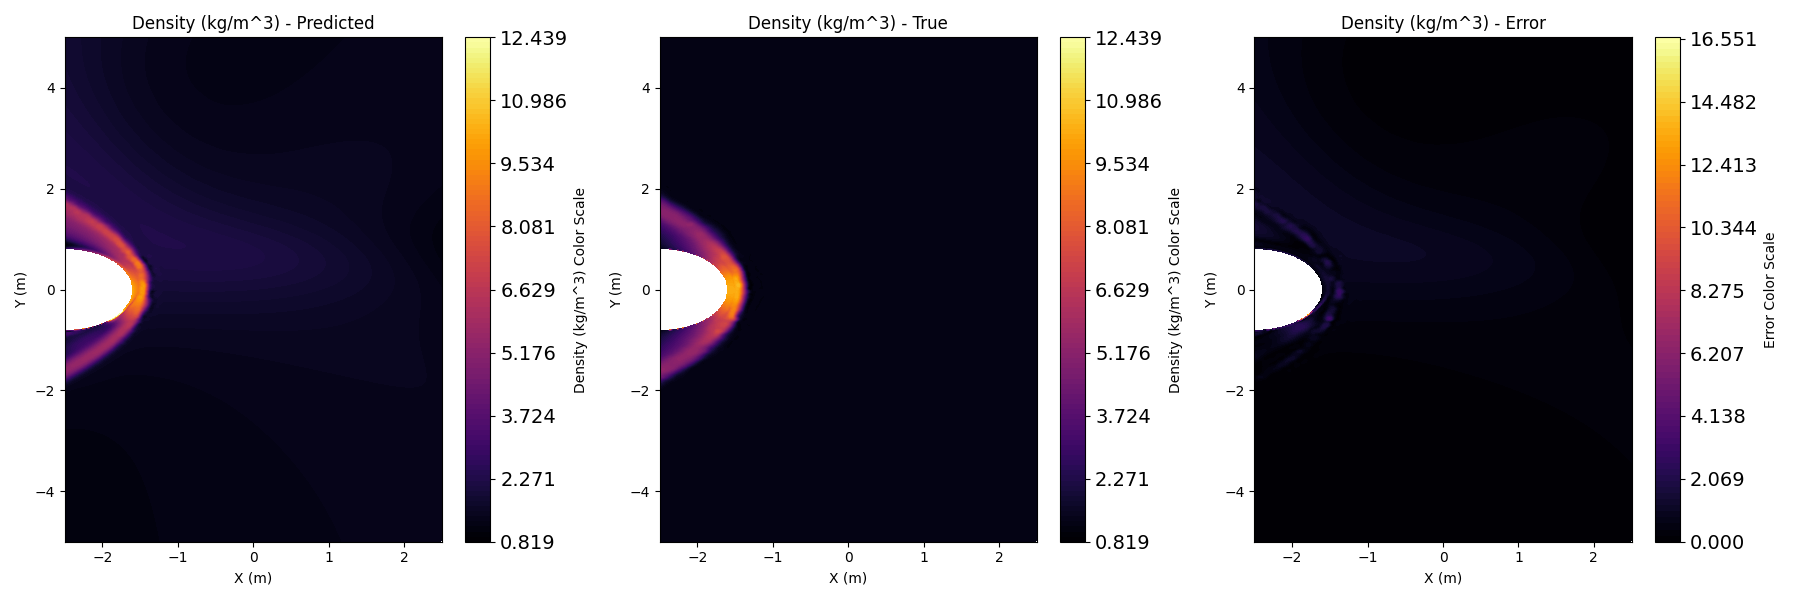
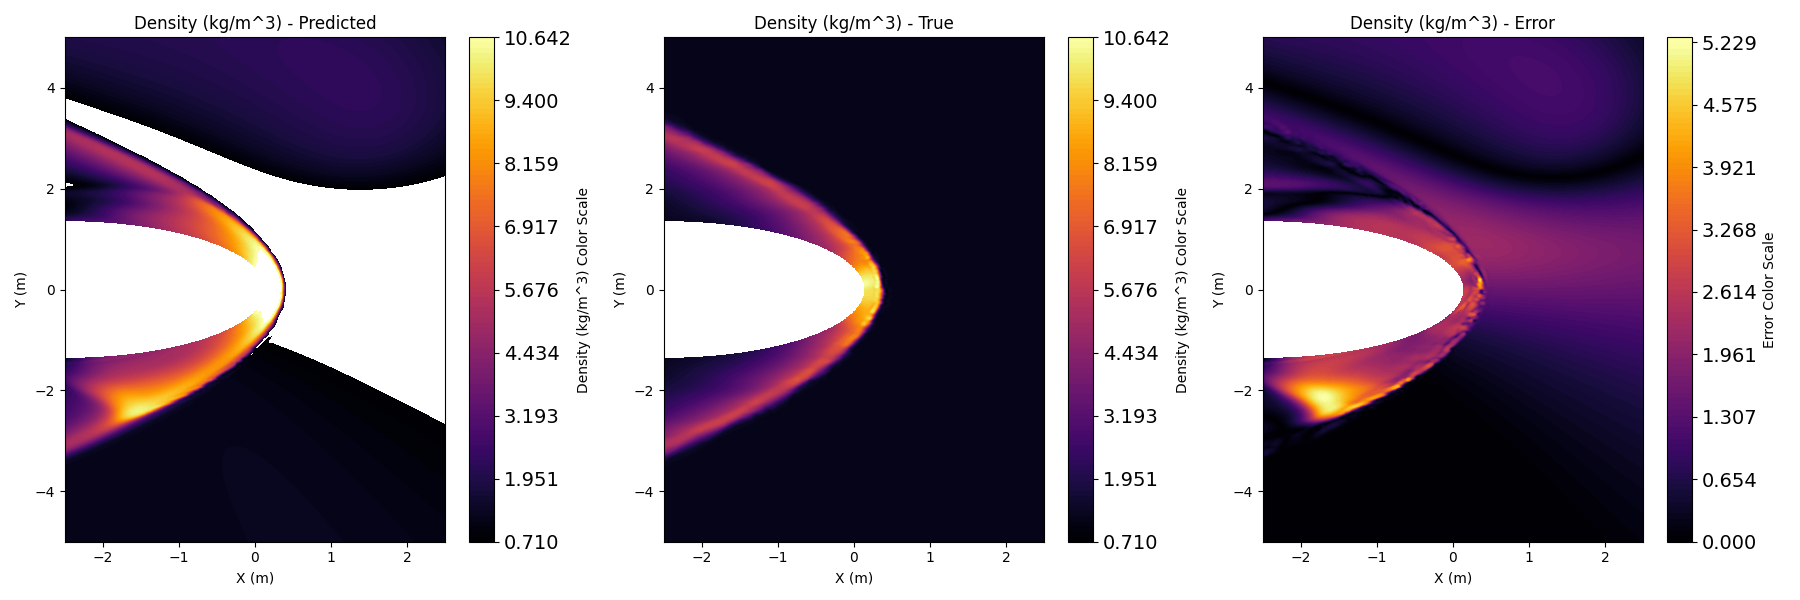
going to analyze code and get help with checking if I'm actually passing in lf output into hf net

diff --git a/src/postprocess/methods_postprocess.py b/src/postprocess/methods_postprocess.py
@@ -166,6 +166,7 @@ class MethodsPostprocess:
             residuals = residuals_all[param_mask]
 
             # === Denormalize residuals for this case ===
+            r_norm = residuals
             r_denorm = residuals * std_r + mu_r
 
             # === Compute residual per field ===
@@ -183,24 +184,28 @@ class MethodsPostprocess:
 
             idx = field_map[field]
             residual_field = r_denorm[..., idx].flatten()
+            residual_norm_field = r_norm[..., idx].flatten()
 
             # === Interpolate residuals to same grid as other plots ===
             coords_flat = coords.reshape(-1, coords.shape[-1])
             zi_residual = griddata((coords_flat[:, 0], coords_flat[:, 1]), 
                                 residual_field, (xi, yi), method='cubic')
-            
+            zi_residual_norm = griddata((coords_flat[:, 0], coords_flat[:, 1]), 
+                                residual_norm_field, (xi, yi), method='cubic')
+
             # Apply the same mask used for other plots
             zi_residual[mask] = np.nan
+            zi_residual_norm[mask] = np.nan
 
             # === Plot contour plots ===
-            fig, axs = plt.subplots(1, 2, figsize=(12, 6))
-            
-            # Plot 1: Residual contour
+            fig, axs = plt.subplots(1, 3, figsize=(18, 6))  # Changed to 3 subplots
+
+            # Plot 1: Denormalized residual contour
             vmin_res = np.nanmin(zi_residual)
             vmax_res = np.nanmax(zi_residual)
             ticks_res = np.linspace(vmin_res, vmax_res, 9)
             tick_labels_res = [f"{t:.3f}" for t in ticks_res]
-            
+
             levels_res = np.linspace(vmin_res, vmax_res, 100)
             contour1 = axs[0].contourf(xi, yi, zi_residual, levels=levels_res, 
                                     cmap='inferno', vmin=vmin_res, vmax=vmax_res)
@@ -211,38 +216,44 @@ class MethodsPostprocess:
             axs[0].set_title(f"Residual Field – {field}")
             axs[0].set_xlabel("X (m)")
             axs[0].set_ylabel("Y (m)")
-            
-            # Plot 2: Absolute residual contour
+
+            # Plot 2: Normalized residual contour
+            vmin_res_norm = np.nanmin(zi_residual_norm)
+            vmax_res_norm = np.nanmax(zi_residual_norm)
+            ticks_res_norm = np.linspace(vmin_res_norm, vmax_res_norm, 9)
+            tick_labels_res_norm = [f"{t:.3f}" for t in ticks_res_norm]
+
+            levels_res_norm = np.linspace(vmin_res_norm, vmax_res_norm, 100)
+            contour2 = axs[1].contourf(xi, yi, zi_residual_norm, levels=levels_res_norm, 
+                                    cmap='inferno', vmin=vmin_res_norm, vmax=vmax_res_norm)
+            cbar2 = fig.colorbar(contour2, ax=axs[1], ticks=ticks_res_norm)
+            cbar2.ax.set_yticklabels(tick_labels_res_norm)
+            cbar2.set_label(f"Residual {field} (Normalized)")
+            cbar2.ax.tick_params(labelsize=14)
+            axs[1].set_title(f"Normalized Residual Field – {field}")
+            axs[1].set_xlabel("X (m)")
+            axs[1].set_ylabel("Y (m)")
+
+            # Plot 3: Absolute residual contour
             zi_abs_residual = np.abs(zi_residual)
             vmin_abs = np.nanmin(zi_abs_residual)
             vmax_abs = np.nanmax(zi_abs_residual)
             ticks_abs = np.linspace(vmin_abs, vmax_abs, 9)
             tick_labels_abs = [f"{t:.3f}" for t in ticks_abs]
-            
+
             levels_abs = np.linspace(vmin_abs, vmax_abs, 100)
-            contour2 = axs[1].contourf(xi, yi, zi_abs_residual, levels=levels_abs, 
+            contour3 = axs[2].contourf(xi, yi, zi_abs_residual, levels=levels_abs, 
                                     cmap='inferno', vmin=vmin_abs, vmax=vmax_abs)
-            cbar2 = fig.colorbar(contour2, ax=axs[1], ticks=ticks_abs)
-            cbar2.ax.set_yticklabels(tick_labels_abs)
-            cbar2.set_label(f"|Residual| {field}")
-            cbar2.ax.tick_params(labelsize=14)
-            axs[1].set_title(f"Absolute Residual Field – {field}")
-            axs[1].set_xlabel("X (m)")
-            axs[1].set_ylabel("Y (m)")
-            
+            cbar3 = fig.colorbar(contour3, ax=axs[2], ticks=ticks_abs)
+            cbar3.ax.set_yticklabels(tick_labels_abs)
+            cbar3.set_label(f"|Residual| {field}")
+            cbar3.ax.tick_params(labelsize=14)
+            axs[2].set_title(f"Absolute Residual Field – {field}")
+            axs[2].set_xlabel("X (m)")
+            axs[2].set_ylabel("Y (m)")
+
             plt.tight_layout()
             plt.savefig(os.path.join(error_dir, f"{safe_field}_residual_contours.png"))
-            plt.close()
-
-            # === Plot histogram ===
-            plt.figure(figsize=(8, 5))
-            plt.hist(residual_field, bins=100, log=True, color='orange', edgecolor='black')
-            plt.title(f"Residual Distribution – {field}")
-            plt.xlabel(f"{field} Residual Value")
-            plt.ylabel("Count (log scale)")
-            plt.grid(True)
-            plt.tight_layout()
-            plt.savefig(os.path.join(error_dir, f"{safe_field}_residual_histogram.png"))
             plt.close()
 
             print(f"✅ Residual plots saved for field '{field}' and case params {target_param}")

diff --git a/src/preprocess/methods_preprocess.py b/src/preprocess/methods_preprocess.py
@@ -168,28 +168,4 @@ class MethodsPreprocess:
         std[std == 0] = 1  
         return (data - mean) / std, mean, std
 
-    def _subtract_free_stream(self, data):
-
-        self.freestream_by_name = {
-            "Density (kg/m^3)":       1.1766728065550904,
-            "Velocity[i] (m/s)":      -3472.4454196563174,
-            "Velocity[j] (m/s)":      0.0,
-            "Velocity[k] (m/s)":      0.0,
-            "Absolute Pressure (Pa)": 101324.99849262246,
-            "Temperature (K)":        300.0,
-        }
-
-        self.output_columns = [
-            "Density (kg/m^3)", "Velocity[i] (m/s)", "Velocity[j] (m/s)",
-            "Velocity[k] (m/s)", "Absolute Pressure (Pa)", "Temperature (K)"
-        ]
-
-            # Validate all names exist
-        missing = [c for c in self.output_columns if c not in self.freestream_by_name]
-        if missing:
-            raise ValueError(f"Missing freestream values for columns: {missing}")
-        # Ordered vector matching self.output_columns
-        fs_vec = np.array([self.freestream_by_name[c] for c in self.output_columns], dtype=float)
-        
-
-        return data - fs_vec.reshape(1, -1)
+    

diff --git a/src/trainer/methods_trainer.py b/src/trainer/methods_trainer.py
@@ -21,14 +21,12 @@ class MethodsTrainer:
                 targets.requires_grad = True
                 sdf = sdf.to(self.device)
                 aux = maybe_aux[0].to(self.device) if len(maybe_aux) else None
-                # weights = weights.to(self.device)
+                
 
                 self.optimizer.zero_grad()
                 outputs = self.model(coords, params, sdf, aux=aux)
                 
-                # if self.loss_type == "weighted_mse":
-                #     loss = self.weighted_mse(outputs, targets)
-                # elif self.loss_type == "mse":
+                
                 loss = self.criterion(outputs, targets)
                 loss.backward()
                 

diff --git a/src/surrogate/methods_surrogate.py b/src/surrogate/methods_surrogate.py
@@ -163,7 +163,7 @@ class MethodsSurrogate:
         return sorted(glob.glob(os.path.join(base_dir, "*.csv")))
     
 
-    def _make_residual_dataset(self, hf_npz_out, low_fi_stats_path=None, high_fi_stats_path=None):
+    def _make_residual_dataset(self, hf_npz_out, low_fi_stats_path, high_fi_stats_path):
         hf_train_loader = self.train_loader
         hf_test_loader  = self.test_loader
 
